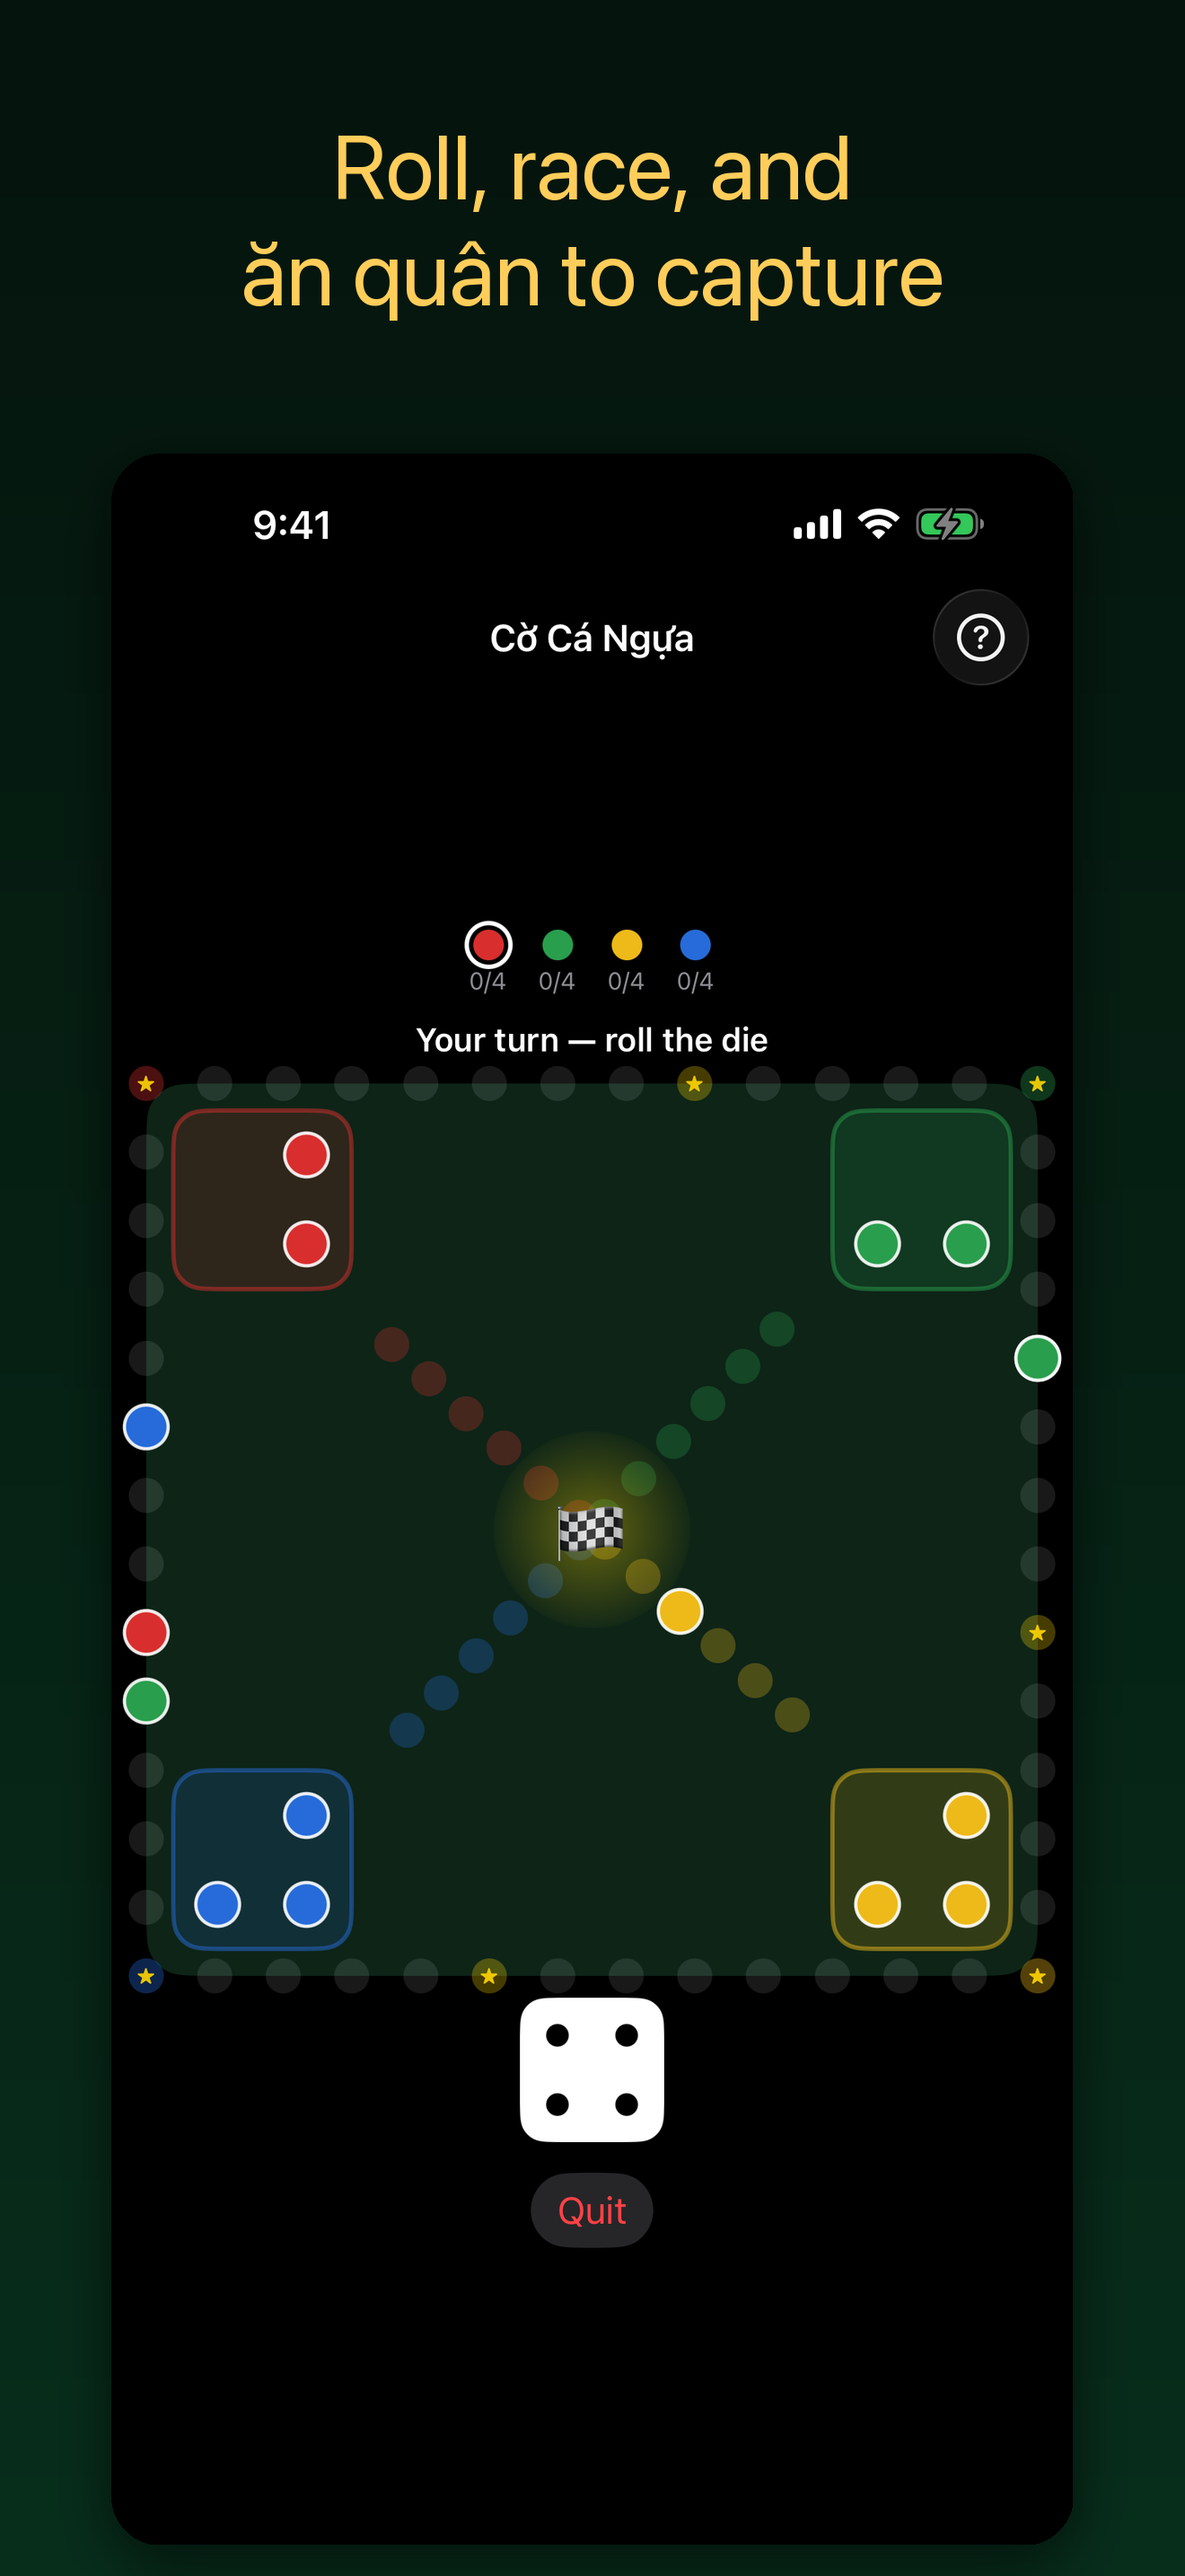
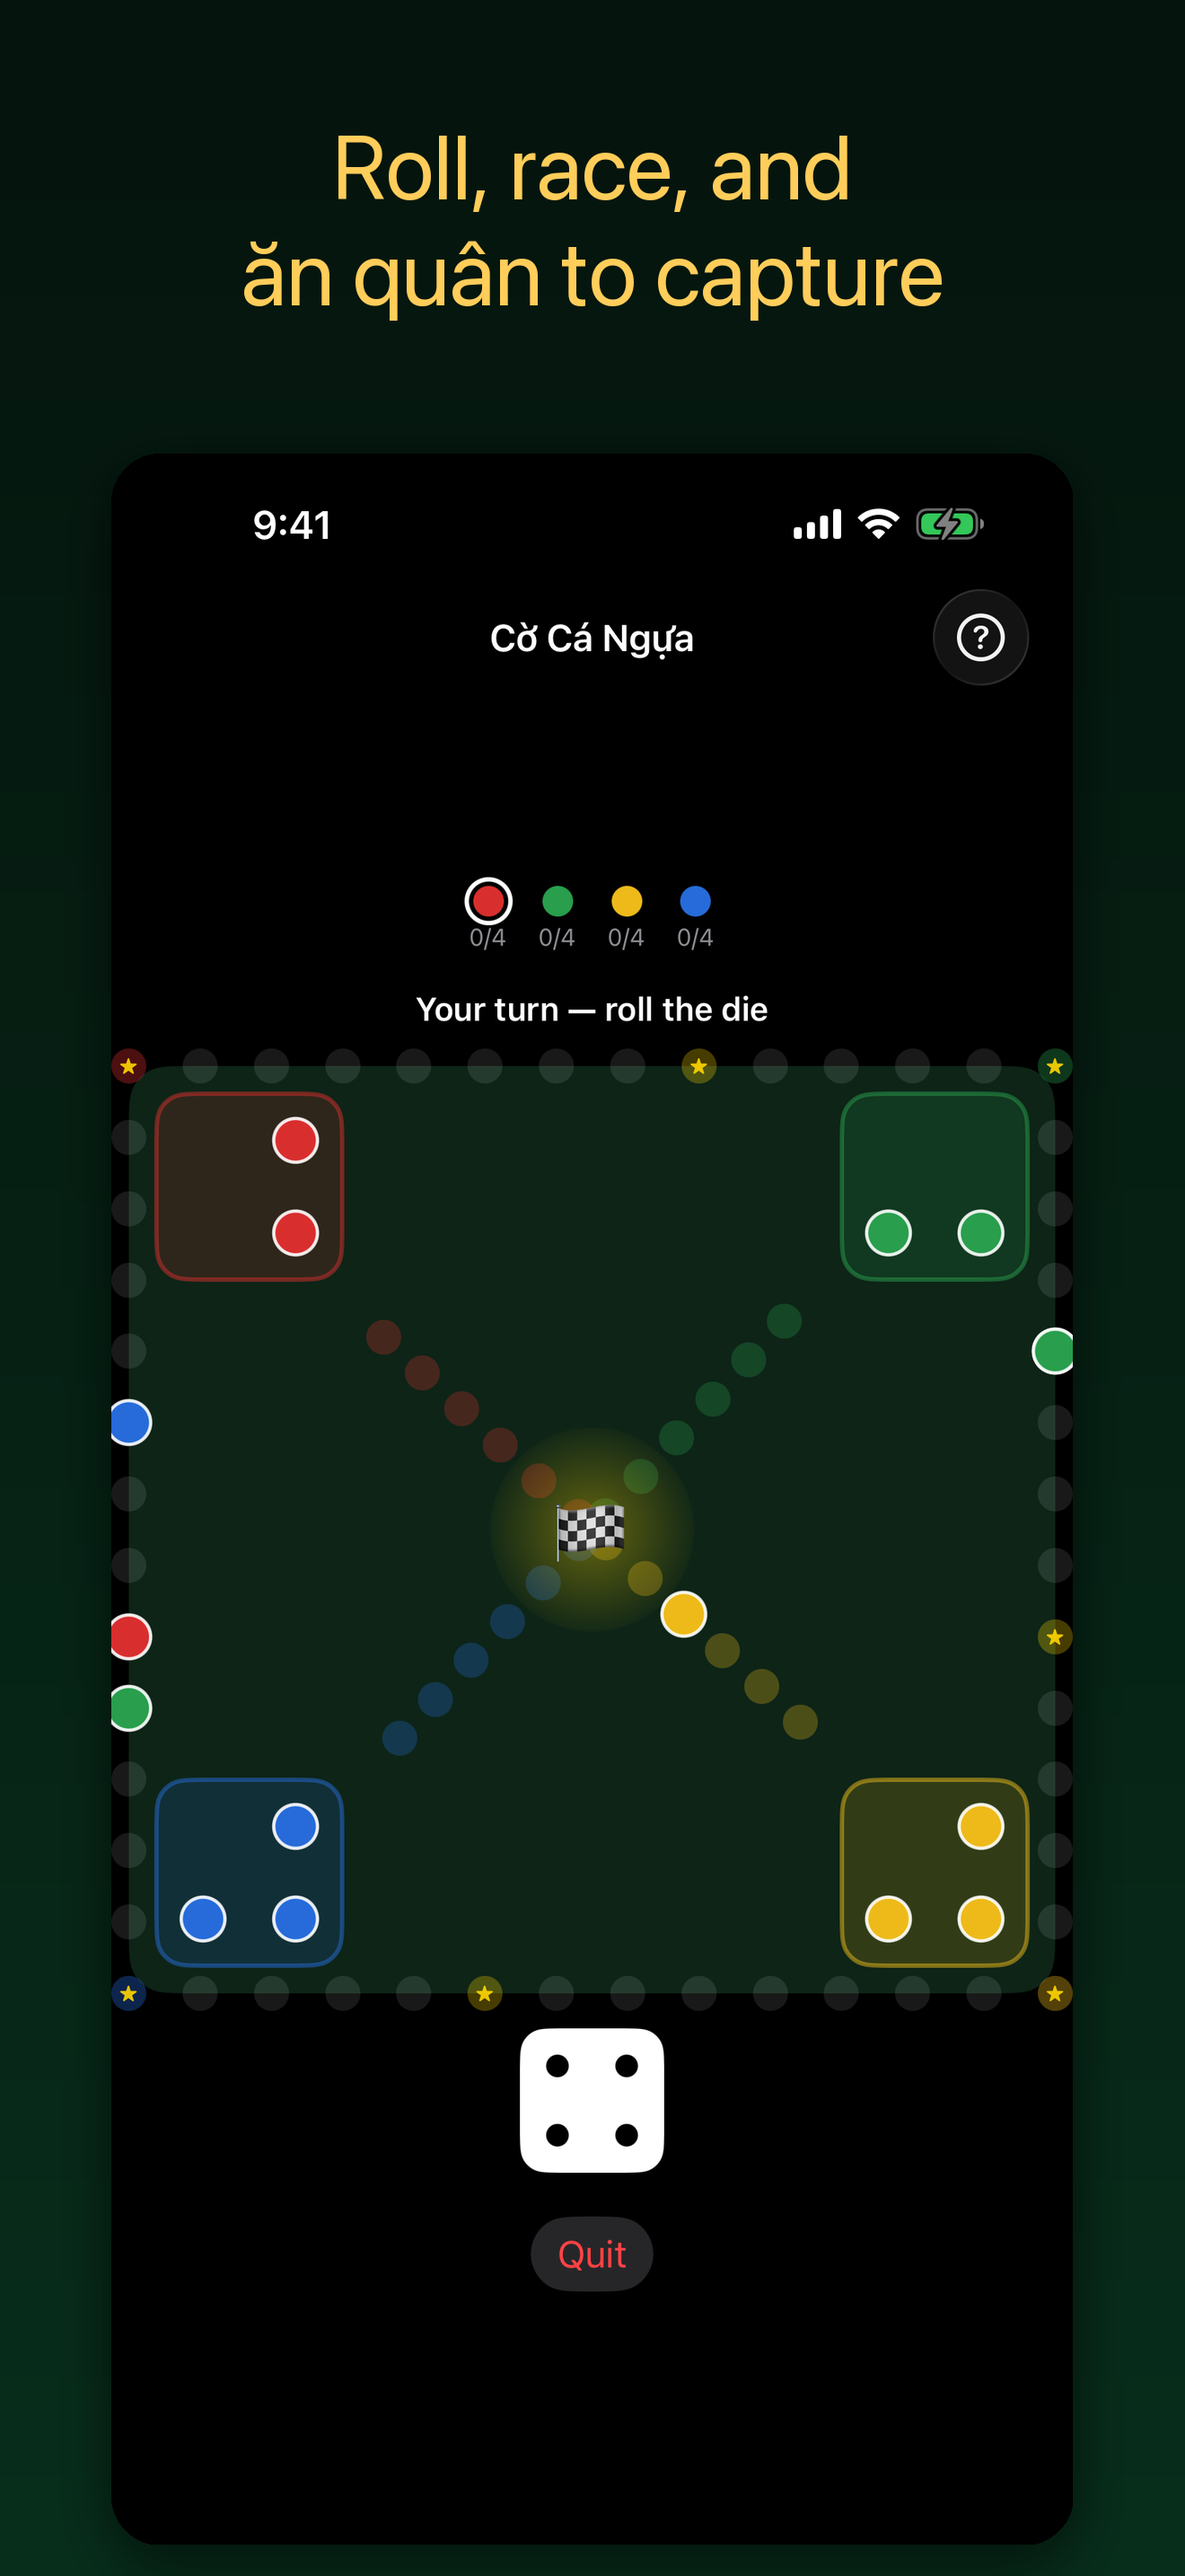
Polish pass: fix GameView dead-space layout, refresh ASO keywords, v1.0.2
Part of the pre-2026-08-18 resubmission polish sweep. Centers game screen
content instead of top-hugging with a large empty gap below Quit; refreshes
en/vi App Store keywords to drop redundant name/subtitle terms and add
pachisi/parcheesi/multiplayer; regenerates and pushes screenshots.

diff --git a/CoCaNgua/Views/GameView.swift b/CoCaNgua/Views/GameView.swift
@@ -11,7 +11,9 @@ struct GameView: View {
     @State private var eventBannerWorkItem: DispatchWorkItem?
 
     var body: some View {
-        VStack(spacing: 10) {
+        VStack(spacing: 16) {
+            Spacer(minLength: 0)
+
             playerBadges
 
             Text(statusText)
@@ -27,7 +29,7 @@ struct GameView: View {
 
             BoardView(game: game)
                 .aspectRatio(1, contentMode: .fit)
-                .padding(.horizontal)
+                .padding(.horizontal, 8)
 
             DieView(value: game.diceValue, isRollable: canRoll) {
                 Haptics.diceRolled()
@@ -43,6 +45,8 @@ struct GameView: View {
             }
             .buttonStyle(.bordered)
             .padding(.top, 4)
+
+            Spacer(minLength: 0)
         }
         .padding(.vertical)
         .navigationTitle(L("home.title"))

diff --git a/CLAUDE.md b/CLAUDE.md
@@ -92,6 +92,36 @@ the wave reviewed so far.
   haptics feature; everything else was verification that confirmed the app was already
   correct.
 
+## Polish pass (2026-08-12)
+
+Part of the pre-2026-08-18 resubmission polish sweep across all 18 apps in the 5.6 wave
+(user asked to check bugs, onboarding, UI professionalism, and ASO/SEO copy for each).
+
+- **UI fix**: `GameView` was top-hugging its content, leaving a large dead black gap
+  below the Quit button on tall screens (visible in the marketing screenshots — the
+  board itself is width-bound at 1:1 aspect so it can't grow taller, but the surrounding
+  whitespace was unbalanced). Added `Spacer(minLength: 0)` before `playerBadges` and
+  after the Quit button so the content block centers vertically instead of sitting at
+  the top with all the slack dumped below it. Bumped `VStack` spacing 10 → 16 for a bit
+  more breathing room. Purely cosmetic, no logic touched.
+- **Screenshots regenerated** (`capture_shots.py`) to reflect the layout fix — only
+  `02-midgame.png` and `03-upgrade.png` changed (the only screens GameView affects;
+  01-home/04-rules are OnboardingView/RulesView, untouched). Pushed to ASC via
+  `asc_push_cocangua_screenshots.py`.
+- **ASO keywords refreshed** in `asc_push_cocangua.py` and pushed live: dropped terms
+  already covered by the indexed name/subtitle (e.g. "vietnamese ludo", "race game",
+  "cờ việt nam", "đua ngựa") and added higher-value non-redundant search terms —
+  `pachisi`/`parcheesi` (global Ludo-family search terms this app wasn't targeting) and
+  `multiplayer`/`board` (en), `cá ngựa`/`pachisi`/`board game` (vi). Description and
+  promotional text were already strong from the original submission — left unchanged.
+  Pushed via `asc_push_cocangua.py` (App Info + version localizations updated
+  successfully; the IAP localization PATCH 409'd with `IAP_VERSION_UNMODIFIABLE` —
+  pre-existing, the IAP is locked while attached to the rejected version; not something
+  this pass needed to touch, name/price were already correct).
+- Onboarding, localization, and IAP-gating logic were re-checked against the 2026-08-09
+  review findings above — still solid, no regressions.
+- Version bump: `MARKETING_VERSION` 1.0.1 → 1.0.2, `CURRENT_PROJECT_VERSION` 2 → 3.
+
 ## Deploy / resubmit pattern
 
 No Xcode account/Distribution cert on this machine — pass the ASC API key explicitly to
